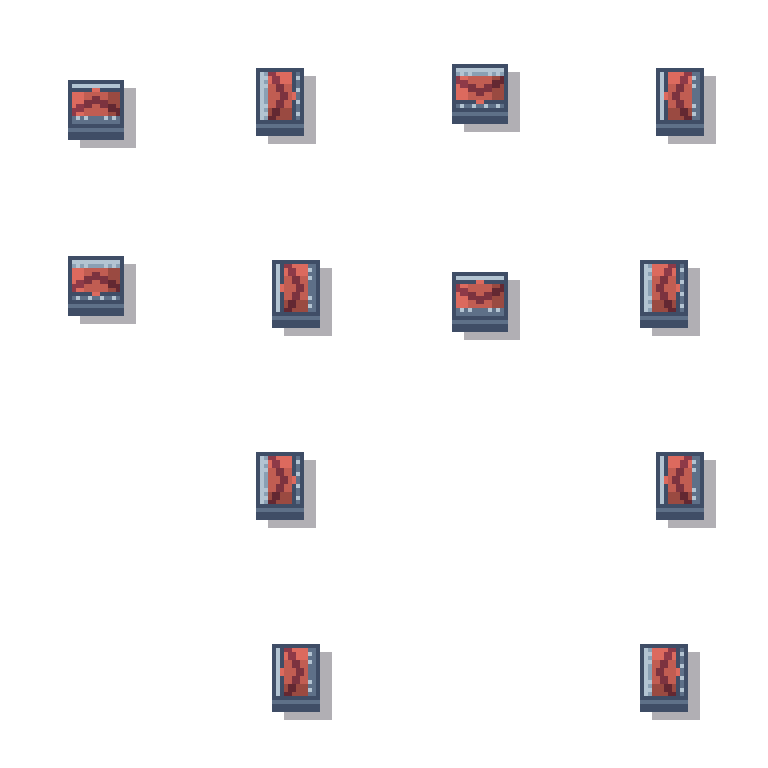
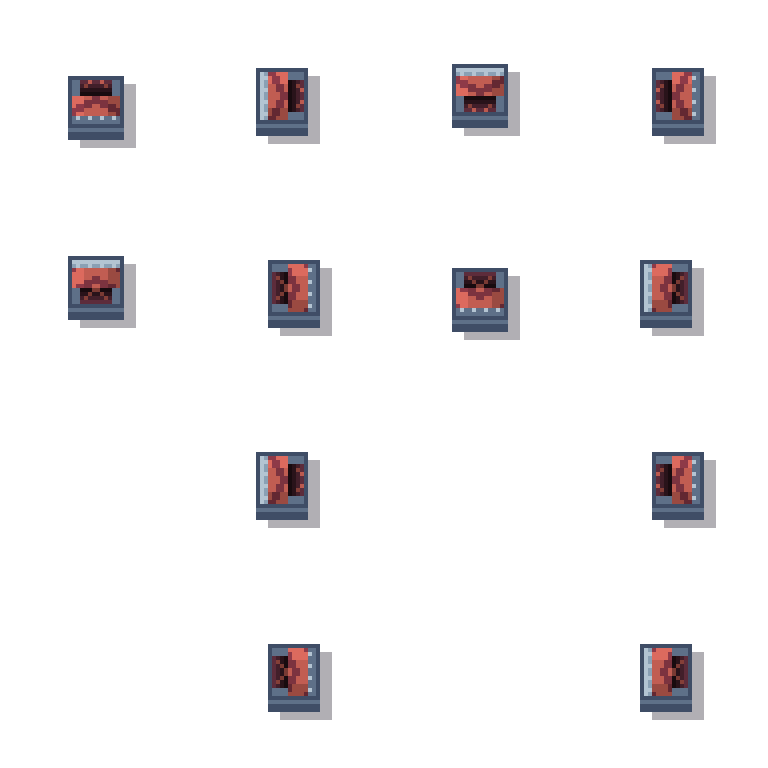
Pixel : souterrains avec bouche ouverte côté tapis et bout fermé côté enterré

diff --git a/pixel/pillow/belt_structures.py b/pixel/pillow/belt_structures.py
@@ -78,7 +78,7 @@ def add_face(img, mask):
 # ---------------------------------------------------------------- souterrain
 # Capot en voûte (demi-cylindre couché dans le sens du flux) : plaque bombée de la teinte vive du convoyeur du même niveau (chevrons de sa teinte foncée),
 # chevrons qui suivent le flux, anneau d'acier à rivets à chaque bout, face avant sombre (hauteur) et ombre portée.
-UG_LEN = 12        # longueur du capot dans le sens du flux (px)
+UG_LEN = 13        # longueur du capot dans le sens du flux : bout fermé 3, voûte 5, bouche 5 (px)
 UG_WIDTH = 14      # largeur en travers (px)
 FACE = 3           # hauteur de la face avant (px)
 
@@ -116,18 +116,24 @@ def underground_cell(direction, entering, tier):
             hood.putpixel((x, y), 255)
             if abs(lat) > UG_WIDTH / 2 - 1:
                 c = P["steel_dark"]                                    # flancs : contour
-            elif d_ug < 3:                                             # anneau côté enterré, plus épais
+            elif d_ug < 3:                                             # bout fermé (côté enterré) : mur plein à rivets
                 c = belt.shade(d_ug, out_n)
-                if d_ug >= 2 and (abs(lat) in (2.5, 4.5) or abs(lat) > 5.5):
-                    c = P["steel_light"] if abs(lat) in (2.5, 4.5) else c      # rivets
-            elif d_belt < 2:                                           # anneau côté tapis
-                c = belt.shade(d_belt, in_n)
-                if d_belt >= 1 and abs(lat) in (1.5, 4.5):
-                    c = P["steel_light"]                               # rivets
-            elif d_belt < 3:                                           # bouche : trait sombre avec un chevron du tapis qui entre
-                c = light if abs(lat) < 1.5 else P["steel_dark"]
+                if d_ug >= 2 and abs(lat) in (1.5, 4.5):
+                    c = P["steel_light"]
+            elif d_belt < 5:                                           # bouche ouverte côté tapis
+                if d_belt < 1:
+                    c = belt.shade(d_belt, in_n)                       # lèvre de l'ouverture
+                elif abs(lat) >= 4.5:
+                    c = belt.shade(1 + (abs(lat) - 4.5), (0, 0)) if abs(lat) < 5.5 else P["steel"]   # piédroits
+                else:
+                    # intérieur du tunnel : de plus en plus sombre vers le bout fermé, avec le chevron du tapis
+                    k = d_belt - 1                                     # 0 (près de la lèvre) à 3 (au fond)
+                    f_ = (0.85, 0.6, 0.38, 0.22)[min(3, int(k))]
+                    u_tip = (3 if entering else UG_LEN - 2) + 1.5      # pointe du chevron, dans le sens du flux
+                    chev = abs(lat) < 2.6 and int(u) == int(u_tip - abs(lat) + 0.5)
+                    c = darken(light if chev else belt.BASE[tier], f_ if not chev else max(f_, 0.55))
             else:
-                # surface bombée : plaque de la teinte vive du niveau, chevrons de la teinte foncée ; plus sombre sur le flanc
+                # voûte : plaque de la teinte vive du niveau, chevrons de la teinte foncée ; plus sombre sur le flanc
                 # opposé à la lumière
                 shade = 1.0 if lat_abs < -3 else 0.88 if lat_abs < 3 else 0.7
                 ph = (u + abs(lat) * 0.55) % 6

diff --git a/pixel/STYLE.md b/pixel/STYLE.md
@@ -28,5 +28,5 @@ Référence pour tout sprite du mod pixel. Les couleurs vivent dans `pillow/pale
 - Voyant du moteur qui clignote : indique visuellement que la machine travaille. **[PROVISOIRE]**
 
 ## Structures de convoyeurs
-- Souterrain : capot en voûte (demi-cylindre couché dans le sens du flux), 14 px de large sur 12 de long, d'après les souterrains de Factorio. Plaque bombée de la teinte vive du convoyeur du même niveau (jaune, rouge, bleu) avec des chevrons de sa teinte foncée, flanc opposé à la lumière plus sombre, anneau d'acier à rivets à chaque bout, petit chevron du tapis dans la bouche côté tapis, face avant sombre de 3 px et ombre portée. **[PROVISOIRE, à juger en jeu]**
+- Souterrain : capot en voûte de 14 px de large sur 13 de long, d'après les souterrains de Factorio. Entrée et sortie sont des miroirs l'une de l'autre : un bout fermé (mur plein à rivets) du côté enterré, une bouche ouverte du côté du tapis (tunnel qui s'assombrit avec le chevron du tapis qui entre ou qui sort), entre les deux une voûte à plaque de la teinte vive du convoyeur du même niveau et chevrons foncés. Face avant sombre de 3 px et ombre portée. **[PROVISOIRE, à juger en jeu]**
 - Répartiteur : poteaux d'extrémité, cloison avec nez diviseur côté entrée, rail à trois engrenages (acier, moyeu orange) qui tournent, capots à chevrons de la couleur du niveau côté sortie, deux voyants qui clignotent en alternance. **[PROVISOIRE]**
